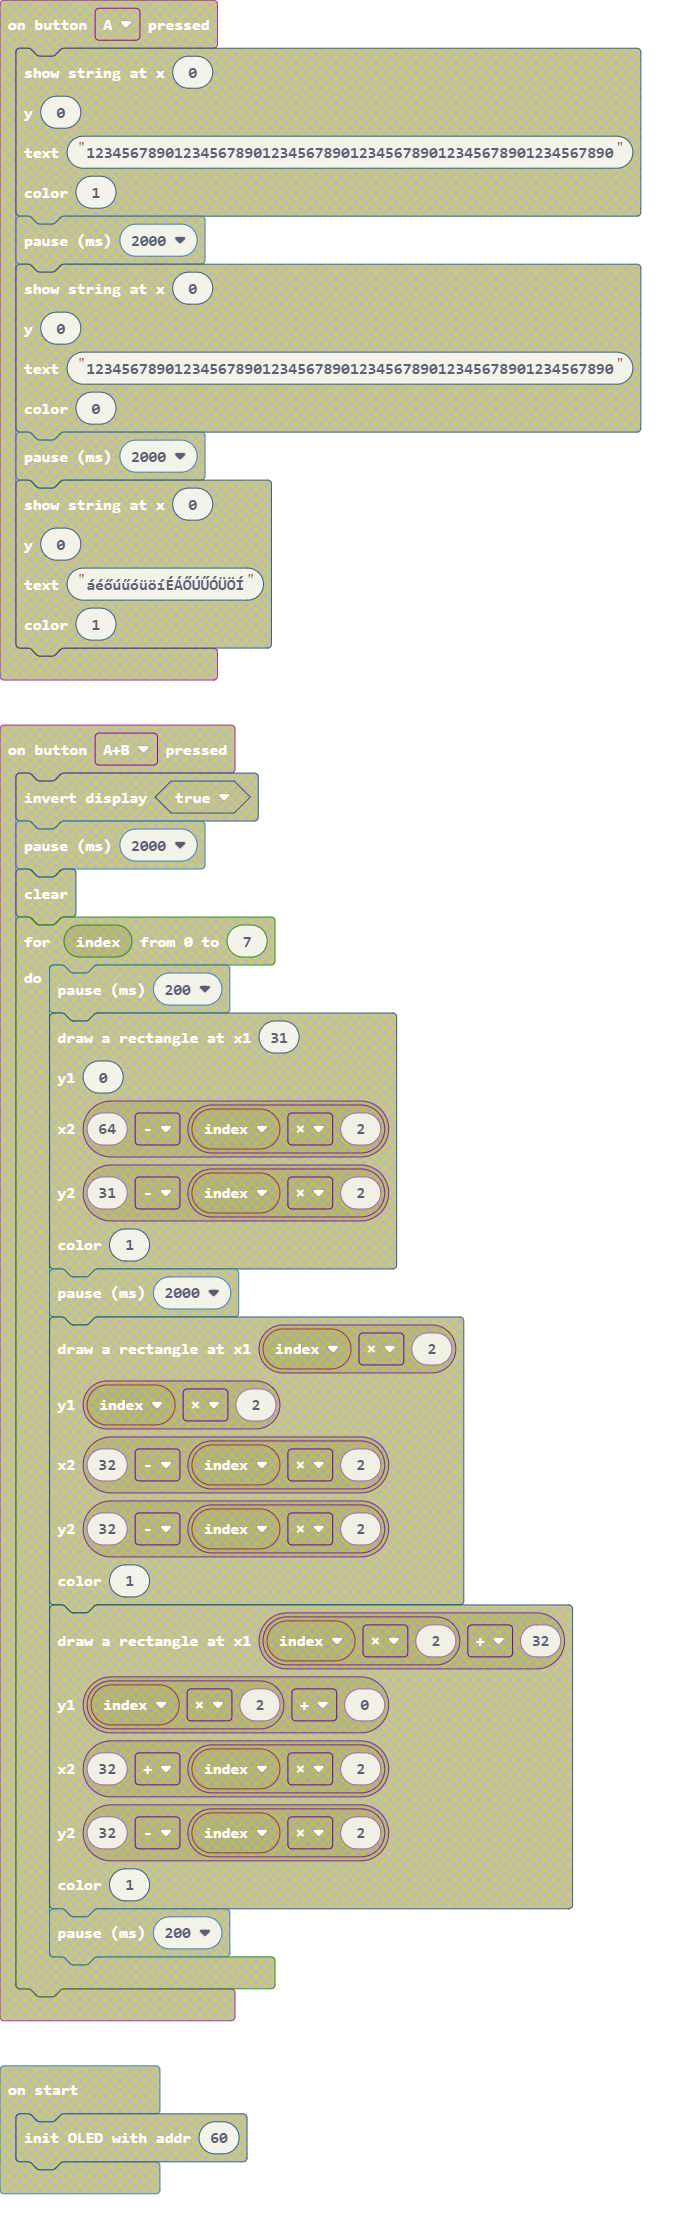
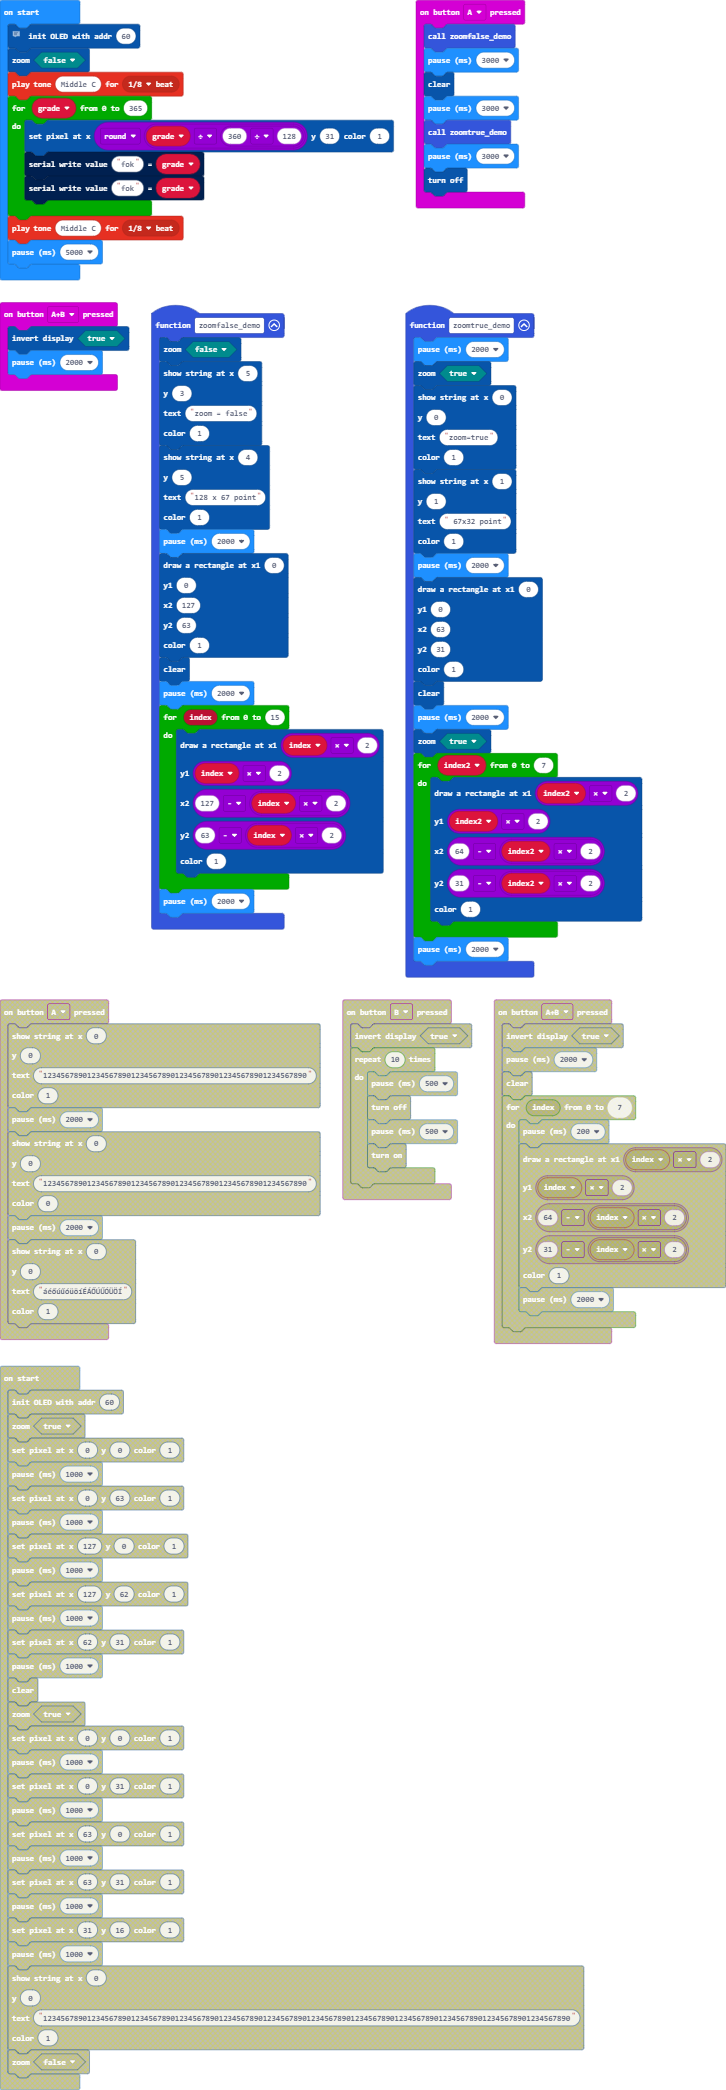
Update main.blocks, main.ts

diff --git a/main.ts b/main.ts
@@ -1,113 +1,113 @@
-/**
- * OLED12864_I2C Extension
- * 
- * G   V   SCL   SDA
- * 
- * GND 5V   P19   P20
- * 
- * Graph 
- * 
- * Zoom = false:128x64 point
- * 
- * left-top corner:0,0
- * 
- * left-bottom corner:0,63
- * 
- * rigth-top corner:127,0
- * 
- * rigth-bottom corner:127,63
- * 
- * Char 13x4 
- * 
- * Zoom = true
- * 
- * left-top corner:0,0
- * 
- * left-bottom corner:0,31
- * 
- * rigth-top corner:63,0
- * 
- * rigth-bottom corner:63,31
- * 
- * Char 13x4 
- * 
- * Only ASCII characters chr(0) to chr(127)
- */
 input.onButtonPressed(Button.A, function () {
-    OLED12864_I2C.showString(
-    0,
-    0,
-    "123456789012345678901234567890123456789012345678901234567890",
-    1
-    )
-    basic.pause(2000)
-    OLED12864_I2C.showString(
-    0,
-    0,
-    "123456789012345678901234567890123456789012345678901234567890",
-    0
-    )
-    basic.pause(2000)
-    OLED12864_I2C.showString(
-    0,
-    0,
-    "áéőúűóüöíÉÁŐÚŰÓÜÖÍ",
-    1
-    )
+    zoomfalse_demo()
+    basic.pause(3000)
+    OLED12864_I2C.clear()
+    basic.pause(3000)
+    zoomtrue_demo()
+    basic.pause(3000)
+    OLED12864_I2C.off()
 })
 input.onButtonPressed(Button.AB, function () {
     OLED12864_I2C.invert(true)
     basic.pause(2000)
+})
+function zoomtrue_demo () {
+    basic.pause(2000)
+    OLED12864_I2C.zoom(true)
+    OLED12864_I2C.showString(
+    0,
+    0,
+    "zoom=true",
+    1
+    )
+    OLED12864_I2C.showString(
+    1,
+    1,
+    " 67x32 point",
+    1
+    )
+    basic.pause(2000)
+    OLED12864_I2C.rect(
+    0,
+    0,
+    63,
+    31,
+    1
+    )
     OLED12864_I2C.clear()
-    for (let index = 0; index <= 7; index++) {
-        basic.pause(200)
+    basic.pause(2000)
+    OLED12864_I2C.zoom(true)
+    for (let index2 = 0; index2 <= 7; index2++) {
+        OLED12864_I2C.rect(
+        index2 * 2,
+        index2 * 2,
+        64 - index2 * 2,
+        31 - index2 * 2,
+        1
+        )
+    }
+    basic.pause(2000)
+}
+function zoomfalse_demo () {
+    OLED12864_I2C.zoom(false)
+    OLED12864_I2C.showString(
+    5,
+    3,
+    "zoom = false",
+    1
+    )
+    OLED12864_I2C.showString(
+    4,
+    5,
+    "128 x 67 point",
+    1
+    )
+    basic.pause(2000)
+    OLED12864_I2C.rect(
+    0,
+    0,
+    127,
+    63,
+    1
+    )
+    OLED12864_I2C.clear()
+    basic.pause(2000)
+    for (let index = 0; index <= 15; index++) {
         OLED12864_I2C.rect(
         index * 2,
         index * 2,
-        64 - index * 2,
-        31 - index * 2,
+        127 - index * 2,
+        63 - index * 2,
         1
         )
-        basic.pause(2000)
     }
-})
-input.onButtonPressed(Button.B, function () {
-    OLED12864_I2C.invert(true)
-    for (let index = 0; index < 10; index++) {
-        basic.pause(500)
-        OLED12864_I2C.off()
-        basic.pause(500)
-        OLED12864_I2C.on()
-    }
-})
+    basic.pause(2000)
+}
+// OLED12864_I2C Extension
+// G   V   SCL   SDA
+// GND 5V   P19   P20
+// Graph
+// Zoom = false:128x64 point
+// left-top corner:0,0
+// left-bottom corner:0,63
+// rigth-top corner:127,0
+// rigth-bottom corner:127,63
+// Char 25x8
+// 
+// Zoom = true
+// left-top corner:0,0
+// left-bottom corner:0,31
+// rigth-top corner:63,0
+// rigth-bottom corner:63,31
+// Char 13x4
+// Only ASCII characters chr(0) to chr(127)
 OLED12864_I2C.init(60)
-OLED12864_I2C.zoom(true)
-OLED12864_I2C.pixel(0, 0, 1)
-basic.pause(1000)
-OLED12864_I2C.pixel(0, 63, 1)
-basic.pause(1000)
-OLED12864_I2C.pixel(127, 0, 1)
-basic.pause(1000)
-OLED12864_I2C.pixel(127, 62, 1)
-basic.pause(1000)
-OLED12864_I2C.pixel(62, 31, 1)
-basic.pause(1000)
-OLED12864_I2C.clear()
-OLED12864_I2C.zoom(true)
-OLED12864_I2C.pixel(0, 0, 1)
-basic.pause(1000)
-OLED12864_I2C.pixel(0, 31, 1)
-basic.pause(1000)
-OLED12864_I2C.pixel(63, 0, 1)
-basic.pause(1000)
-OLED12864_I2C.pixel(63, 31, 1)
-basic.pause(1000)
-OLED12864_I2C.pixel(31, 16, 1)
-basic.pause(1000)
-OLED12864_I2C.showString(
-0,
-0,
-"123456789012345678901234567890123456789012345678901234567890123456789012345678901234567890123456789012345678901234567890",
-1
-)
 OLED12864_I2C.zoom(false)
+music.playTone(262, music.beat(BeatFraction.Eighth))
+for (let grade = 0; grade <= 365; grade++) {
+    OLED12864_I2C.pixel(Math.round(grade / (360 / 128)), 31, 1)
+    serial.writeValue("fok", grade)
+    serial.writeValue("fok", grade)
+}
+music.playTone(262, music.beat(BeatFraction.Eighth))
+basic.pause(5000)
